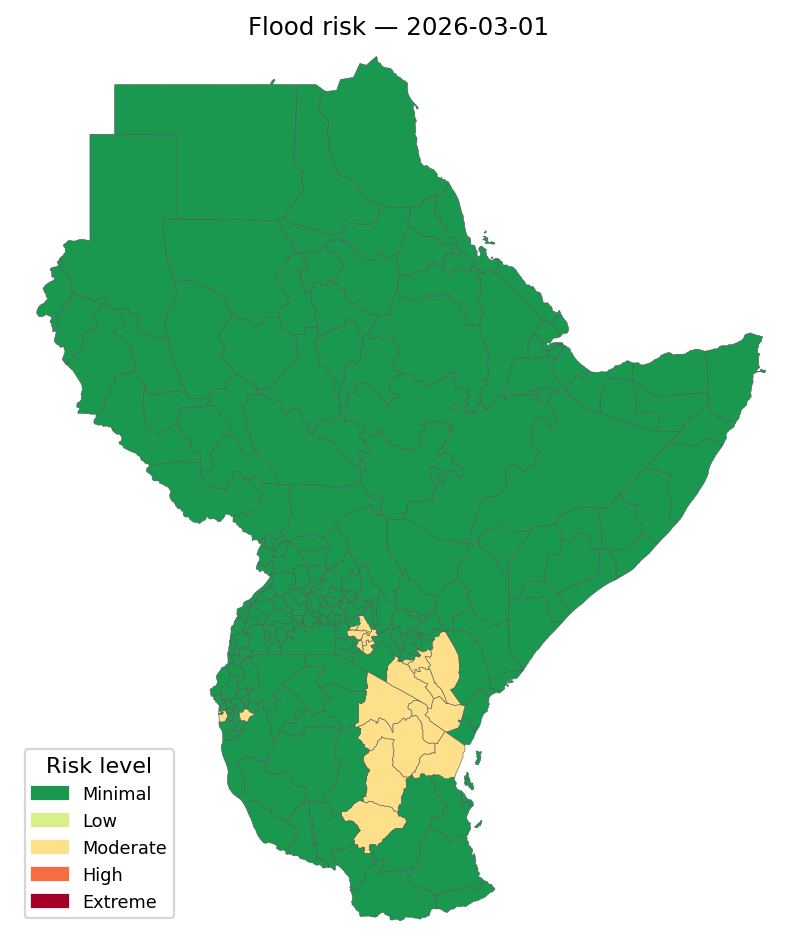
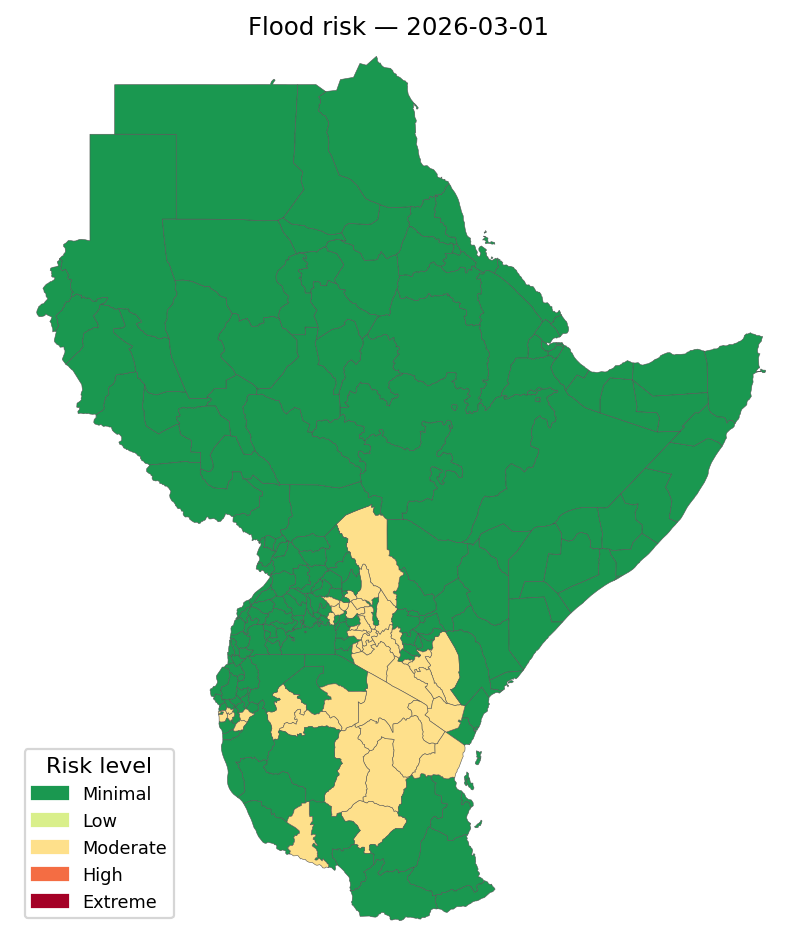
Add tail_risk node to BN for ensemble-max threshold exceedance
The mean exceedance probability misses tail risk: when only 1-2 of 51
ensemble members exceed the RP threshold, eprob rounds to ~2% and
discretizes to Very_Low, producing Minimal risk even when the
worst-case member shows extreme rainfall.

New tail_risk node (4 states: None/Low/Moderate/High) captures the
ratio of ensemble-max accumulation to the pixel-wise 2-yr return
period threshold. When ens_max/threshold >= 1.0, at least one member
exceeds — this signal now feeds directly into the risk CPT.

Data prep (flood_data_prep.py):
- Compute ens_max and ens_min per duration across 51 members
- ens_max_ratio = max over durations of (ens_max_mm / threshold_mm)
- Add diagnostic columns: ens_mean_24h_mm, ens_max_24h_mm,
  ens_min_24h_mm for transparency

Julia BN (flood_bn_ibf_v1.jl):
- Add TAIL_RISK_STATES, categorize_tail_risk() with thresholds at
  0.5/1.0/2.0× the RP threshold
- Extend compute_risk_probs() with tail parameter: base_risk boost
  (+0.10 to +0.60) and three new expert rules:
  - T1: low eprob + high tail risk + wet ground → Moderate
  - T2: high tail risk (≥2× threshold) with any antecedent → Moderate
  - T3: moderate tail risk + increasing trend → Moderate
- Expand CPT from 225 to 900 columns (no-agreement + tail_risk)
- Add --tail-risk CLI flag; BoundaryInput gains ens_max_ratio field

Impact on March 1-10 2026 assessment:
- Moderate+ boundaries: 64 → 100 (+56%)
- Mtwara (Tanzania) now reaches High risk on Mar 7 (was Minimal)
[…]

Changed region(s): [[0.3317, 0.5228, 0.5126, 0.9226], [0.2714, 0.7381, 0.3015, 0.7688]]

diff --git a/flood_ibf/flood_data_prep.py b/flood_ibf/flood_data_prep.py
@@ -226,20 +226,42 @@ def main() -> None:
     thresh_ec = {dur: regrid_to(thresh[dur], ref.lat, ref.lon) for dur in DURATIONS}
 
     eprob = {}
+    ens_max_ratio_per_dur = {}
     for dur in DURATIONS:
-        eprob[dur] = ((accums[dur] >= thresh_ec[dur])
-                      .astype("float32").mean(dim="member"))
+        exceeds = (accums[dur] >= thresh_ec[dur]).astype("float32")
+        eprob[dur] = exceeds.mean(dim="member")
+        ens_max_mm = accums[dur].max(dim="member")
+        ens_min_mm = accums[dur].min(dim="member")
+        safe_thresh = thresh_ec[dur].where(thresh_ec[dur] > 0, 1.0)
+        ens_max_ratio_per_dur[dur] = ens_max_mm / safe_thresh
     eprob_24 = eprob["24hr"]
     p_heavy = xr.concat([eprob[d] for d in DURATIONS], dim="duration").max("duration")
+
+    # Tail risk: max across durations of (ens_max / threshold) per pixel
+    max_ratio = xr.concat([ens_max_ratio_per_dur[d] for d in DURATIONS],
+                          dim="duration").max("duration")
+
+    # Ensemble mean and max at 24h for diagnostics
+    ens_mean_24h = accums["24hr"].mean(dim="member")
+    ens_max_24h = accums["24hr"].max(dim="member")
+    ens_min_24h = accums["24hr"].min(dim="member")
 
     ec_mask = build_mask(adm1, ref.lat, ref.lon)
     eprob_heavy_adm = zonal_reduce(p_heavy, ec_mask, ref.lat, n_adm)
     eprob_24h_adm = zonal_reduce(eprob_24, ec_mask, ref.lat, n_adm)
     spatial_cov_adm = zonal_reduce(p_heavy, ec_mask, ref.lat, n_adm, thresh=0.5)
+    max_ratio_adm = zonal_reduce(max_ratio, ec_mask, ref.lat, n_adm)
+    ens_mean_24h_adm = zonal_reduce(ens_mean_24h, ec_mask, ref.lat, n_adm)
+    ens_max_24h_adm = zonal_reduce(ens_max_24h, ec_mask, ref.lat, n_adm)
+    ens_min_24h_adm = zonal_reduce(ens_min_24h, ec_mask, ref.lat, n_adm)
 
     eprob_heavy_adm = fill_small_boundaries(eprob_heavy_adm, p_heavy, adm1)
     eprob_24h_adm = fill_small_boundaries(eprob_24h_adm, eprob_24, adm1)
     spatial_cov_adm = fill_small_boundaries(spatial_cov_adm, p_heavy, adm1, thresh=0.5)
+    max_ratio_adm = fill_small_boundaries(max_ratio_adm, max_ratio, adm1)
+    ens_mean_24h_adm = fill_small_boundaries(ens_mean_24h_adm, ens_mean_24h, adm1)
+    ens_max_24h_adm = fill_small_boundaries(ens_max_24h_adm, ens_max_24h, adm1)
+    ens_min_24h_adm = fill_small_boundaries(ens_min_24h_adm, ens_min_24h, adm1)
 
     # ---------------- Assemble output ----------------
     country = (adm1["GID_1"].str.split(".").str[0]
@@ -257,6 +279,10 @@ def main() -> None:
         "eprob_24h": np.round(eprob_24h_adm, 4),
         "spatial_coverage": np.round(spatial_cov_adm, 4),
         "forecast_agreement": "Medium",
+        "ens_max_ratio": np.round(max_ratio_adm, 4),
+        "ens_mean_24h_mm": np.round(ens_mean_24h_adm, 2),
+        "ens_max_24h_mm": np.round(ens_max_24h_adm, 2),
+        "ens_min_24h_mm": np.round(ens_min_24h_adm, 2),
         "target_date": str(D.date()),
     })
 

diff --git a/flood_ibf/flood_bn_ibf_system_v20260412.md b/flood_ibf/flood_bn_ibf_system_v20260412.md
@@ -1,4 +1,4 @@
-# Flood Impact-Based Forecasting (IBF) System — Technical Documentation
+`# Flood Impact-Based Forecasting (IBF) System — Technical Documentation
 
 **Version**: v20260412  
 **Date**: 12 April 2026  
